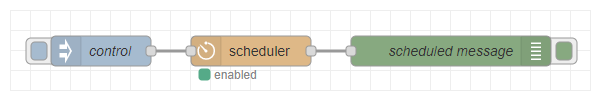
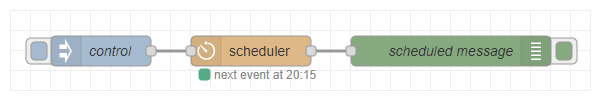
Show next event as scheduler node status

Changed region(s): [[0.3594, 0.6832, 0.5391, 0.802]]

diff --git a/nodes/scheduler.js b/nodes/scheduler.js
@@ -500,39 +500,64 @@ module.exports = function(RED)
 
                 if (data.config.trigger.type == "crontab")
                 {
-                    data.timer = cronosjs.scheduleTask(data.config.trigger.value, () =>
+                    const expression = cronosjs.CronosExpression.parse(data.config.trigger.value);
+                    let firstTrigger = expression.nextDate();
+
+                    if (firstTrigger)
                     {
-                        handleTimeout(data, false);
-                    });
+                        data.triggerTime = chronos.getTimeFrom(node, firstTrigger);
+                        data.timer = new cronosjs.CronosTask(expression);
+
+                        data.timer.on("run", () =>
+                        {
+                            handleTimeout(data, false);
+
+                            let nextTrigger = expression.nextDate();
+                            if (nextTrigger)
+                            {
+                                data.triggerTime = chronos.getTimeFrom(node, nextTrigger);
+                            }
+                            else
+                            {
+                                delete data.triggerTime;
+                            }
+
+                            updateStatus();
+                        });
+
+                        data.timer.start();
+                    }
                 }
                 else
                 {
                     const now = chronos.getCurrentTime(node);
-                    let triggerTime = chronos.getTime(RED, node, repeat ? now.clone().add(1, "days") : now.clone(), data.config.trigger.type, data.config.trigger.value);
+                    data.triggerTime = chronos.getTime(RED, node, repeat ? now.clone().add(1, "days") : now.clone(), data.config.trigger.type, data.config.trigger.value);
 
                     if (data.config.trigger.offset != 0)
                     {
                         let offset = data.config.trigger.random ? Math.round(Math.random() * data.config.trigger.offset) : data.config.trigger.offset;
-                        triggerTime.add(offset, "minutes");
+                        data.triggerTime.add(offset, "minutes");
                     }
 
-                    if (triggerTime.isBefore(now))
+                    if (data.triggerTime.isBefore(now))
                     {
                         node.debug("[Timer:" + data.id + "] Trigger time before current time, adding one day");
 
                         if (data.config.trigger.type == "time")
                         {
-                            triggerTime.add(1, "days");
+                            data.triggerTime.add(1, "days");
                         }
                         else
                         {
-                            triggerTime = chronos.getTime(RED, node, triggerTime.add(1, "days"), data.config.trigger.type, data.config.trigger.value);
+                            data.triggerTime = chronos.getTime(RED, node, data.triggerTime.add(1, "days"), data.config.trigger.type, data.config.trigger.value);
                         }
                     }
 
-                    node.debug("[Timer:" + data.id + "] Starting timer for trigger at " + triggerTime.format("YYYY-MM-DD HH:mm:ss"));
-                    data.timer = setTimeout(handleTimeout, triggerTime.diff(now), data, true);
+                    node.debug("[Timer:" + data.id + "] Starting timer for trigger at " + data.triggerTime.format("YYYY-MM-DD HH:mm:ss"));
+                    data.timer = setTimeout(handleTimeout, data.triggerTime.diff(now), data, true);
                 }
+
+                updateStatus();
             }
             catch (e)
             {
@@ -545,6 +570,8 @@ module.exports = function(RED)
                     node.error(e.message);
                     node.debug(e.stack);
                 }
+
+                delete data.triggerTime;
             }
         }
 
@@ -562,13 +589,14 @@ module.exports = function(RED)
             }
 
             delete data.timer;
+            delete data.triggerTime;
         }
 
-        function handleTimeout(data, regular)
+        function handleTimeout(data, restartTimer)
         {
             node.debug("[Timer:" + data.id + "] Timer expired");
 
-            if (regular)
+            if (restartTimer)
             {
                 delete data.timer;
             }
@@ -597,7 +625,7 @@ module.exports = function(RED)
                 sendMessage(data, data.config.output.value);
             }
 
-            if (regular)
+            if (restartTimer)
             {
                 setUpTimer(data, true);
             }
@@ -707,7 +735,45 @@ module.exports = function(RED)
             }
             else
             {
-                node.status({fill: "green", shape: "dot", text: "scheduler.status.enabledSchedule"});
+                let nextTrigger = null;
+                node.schedule.forEach(data =>
+                {
+                    if (data.triggerTime)
+                    {
+                        if (nextTrigger)
+                        {
+                            if (data.triggerTime.isBefore(nextTrigger))
+                            {
+                                nextTrigger = data.triggerTime;
+                            }
+                        }
+                        else
+                        {
+                            nextTrigger = data.triggerTime;
+                        }
+                    }
+                });
+
+                if (nextTrigger)
+                {
+                    let when = nextTrigger.calendar(
+                    {
+                        sameDay: function()
+                        {
+                            return "LT" + ((this.second() > 0) ? "S" : "");
+                        },
+                        nextDay: function()
+                        {
+                            return "l LT" + ((this.second() > 0) ? "S" : "");
+                        }
+                    });
+
+                    node.status({fill: "green", shape: "dot", text: RED._("scheduler.status.nextEvent") + " " + when});
+                }
+                else
+                {
+                    node.status({fill: "yellow", shape: "dot", text: "scheduler.status.noTime"});
+                }
             }
         }
     }
